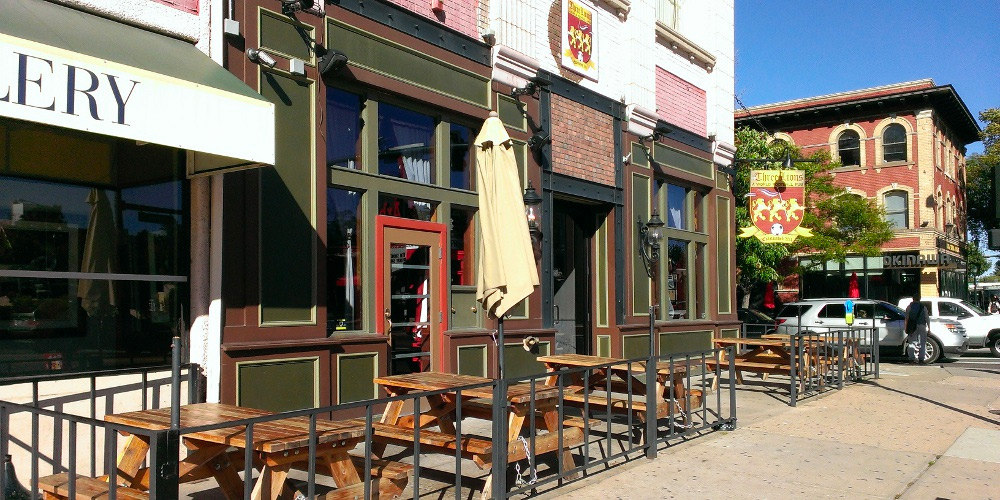
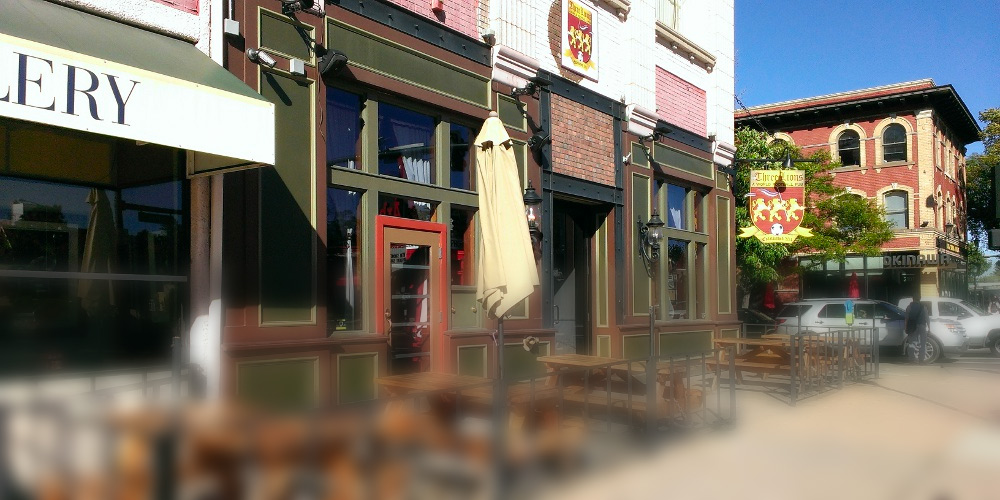
add ablinism fact

diff --git a/src/components/BarContent/BarContent.js b/src/components/BarContent/BarContent.js
@@ -41,7 +41,7 @@ class BarContent extends Component {
     let nextBarGoogleName
     let nextStop
     let finalBar
-    const { name, barNum, barSubtitle, special, time, googleName, checkedIn, image, address } = this.props.currentBar
+    const { name, barNum, barSubtitle, special, time, googleName, checkedIn, image, address, fact } = this.props.currentBar
 
     finalBar = this.props.allBars.length === barNum
 
@@ -54,7 +54,9 @@ class BarContent extends Component {
 
     return (
       <React.Fragment>
-        <Grid container className="barImageContainer" style={{ backgroundImage: `url(${ThreeLionsImg})` }} />
+        <Grid container className="barImageContainer" style={{ backgroundImage: `url(${ThreeLionsImg})` }}>
+          <div className="barFact">Albinism fact: <br />{fact}</div>
+        </Grid>
         <Grid container className="barContentContainer" justify="center">
           <Grid item xs={10} align="left">
             <h3>{time}</h3>

diff --git a/src/components/BarContent/BarContent.css b/src/components/BarContent/BarContent.css
@@ -62,10 +62,6 @@ h4 span {
   margin-left: 5px;
 }
 
-.barContentContainer {
-  height: 100%;
-}
-
 .challenge {
   display: flex;
   align-items: center;
@@ -133,7 +129,6 @@ h4 span {
   background: none !important;
   z-index: 1;
   border: 1px solid #e4c517 !important;
-
 }
 
 .nextBarButton {
@@ -160,10 +155,25 @@ h4 span {
   height: 200px;
   background-size: cover;
   margin-top: 60px;
+  position: relative;
+  padding: 0 20px;
+  z-index: -1;
 }
 
 .address {
   font-style: italic;
   color: #aaa;
   font-size: 0.8em;
+}
+
+.barFact {
+  font-size: 1em;
+  height: 70px;
+  padding: 10px;
+  color: #fff;
+  border-radius: 3px;
+  position: absolute;
+  bottom: 0;
+  text-shadow: 1px 1px #333;
+  font-weight: bold;
 }

diff --git a/src/reducers/allBars.js b/src/reducers/allBars.js
@@ -8,7 +8,8 @@ const allBars = (
       time: '1:00PM - 1:30PM',
       googleName: 'three+lions',
       checkedIn: false,
-      address: '2239 E Colfax'
+      address: '2239 E Colfax',
+      fact: 'June 13th is National Albinism Awareness Day'
     },
     {
       name: 'The Pub',
@@ -18,7 +19,8 @@ const allBars = (
       time: '1:30PM - 2:00PM',
       googleName: 'coors+field',
       checkedIn: false,
-      address: '2239 E Colfax'
+      address: '2239 E Colfax',
+      fact: 'Albinism is an inherited genetic condition'
     }
   ],
   action

diff --git a/src/components/Header/Header.js b/src/components/Header/Header.js
@@ -10,7 +10,7 @@ import './Header.css'
 class Header extends Component {
   goBack = () => {
     const currentBar = this.props.currentBar.barNum
-    this.props.storeCurrentBar(this.props.allBars[currentBar - 2])
+    if (this.props.allBars[currentBar - 2]) this.props.storeCurrentBar(this.props.allBars[currentBar - 2])
   }
 
   render() {

diff --git a/src/reducers/currentBar.js b/src/reducers/currentBar.js
@@ -7,7 +7,8 @@ const currentBar = (
     time: '1:00PM - 1:30PM',
     googleName: 'three+lions',
     checkedIn: false,
-    address: '2239 E Colfax'
+    address: '2239 E Colfax',
+    fact: 'June 13th is National Albinism Awareness Day'
   },
   action
 ) => {

diff --git a/src/components/Group/Group.css b/src/components/Group/Group.css
@@ -70,7 +70,7 @@
 }
 
 .crawlerName {
-  color: #df8850 !important;
+  color: #fe403f !important;
 }
 
 .crawlerCount {
